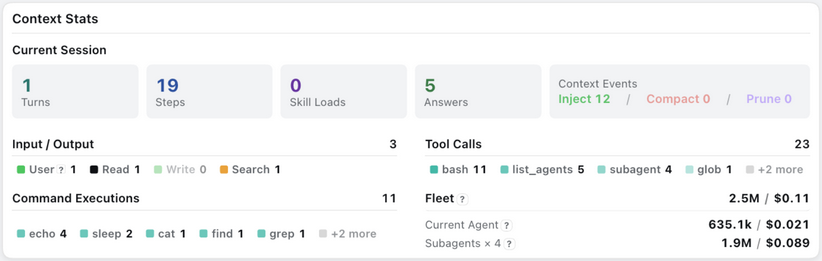
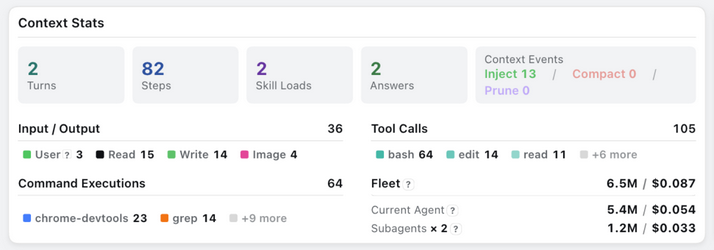
feat(stats): remove the redundant Current Session label from the Context Stats card

diff --git a/tests/client/components/statsContext.spec.ts b/tests/client/components/statsContext.spec.ts
@@ -133,7 +133,6 @@ describe('StatsContext', () => {
     assert.equal(queryAll(m.container, '.lc-ledger-out-body2 > .lc-strip-cell').length, 2, 'Current Agent and Subagents each hold one cost row')
     assert.equal(queryAll(m.container, '.lc-ledger-out-body2 .lc-ledger-chip').length, 0, 'the cost rows replace the roster chips')
     const core = query(m.container, '.lc-core')
-    assert.equal(query(core, '.lc-core-label')?.textContent, 'Current Session')
     assert.deepEqual(queryAll(core, '.lc-core-kv:not(.lc-core-kv-events)').map(el => (el.querySelector('b')?.textContent ?? '') + (el.querySelector('i')?.textContent ?? '')), ['3Turns', '4Steps', '2Skill Loads', '3Answers'])
     assert.equal(queryAll(m.container, '.lc-core-kv-events .lc-kind').length, 3)
     assert.equal(queryAll(m.container, '.lc-core-kv-events .lc-kind.lc-ledger-chip-dim').length, 0)
@@ -255,7 +254,6 @@ describe('StatsContext', () => {
     assert.deepEqual(queryAll(m.container, '.lc-ledger-total').map(el => el.textContent), ['3', '2', '0', '1.0M/¥2.00'])
     assert.deepEqual(chipsOf(query(m.container, '.lc-ledger-in-chips')), ['用户?0', '读取2', '写入1'])
     assert.deepEqual(chipsOf(query(m.container, '.lc-ledger-out-chips')), ['read2', '其他 +0'])
-    assert.equal(query(m.container, '.lc-core-label')?.textContent, '当前会话')
     const core = query(m.container, '.lc-core')
     assert.deepEqual(queryAll(core, '.lc-core-kv:not(.lc-core-kv-events)').map(el => (el.querySelector('b')?.textContent ?? '') + (el.querySelector('i')?.textContent ?? '')), ['1轮次', '1步数', '5技能加载', '4模型回复'])
     const costTip = costTipOf(m.container, 'team')

diff --git a/src/client/styles/stats.css b/src/client/styles/stats.css
@@ -97,7 +97,6 @@ button.lc-ledger-cost-row { appearance: none; border: 0; padding: 0; background:
 .lc-ledger-chip-more { opacity: 0.7; }
 .lc-ledger-gauge { display: block; position: absolute; height: 0; overflow: hidden; visibility: hidden; pointer-events: none; }
 .lc-core { display: grid; grid-template-columns: repeat(6, minmax(0, 1fr)); gap: 8px; padding-bottom: 12px; }
-.lc-core-label { grid-column: 1 / -1; font-size: 12px; font-weight: 600; color: var(--dsw-alias-label-primary); white-space: nowrap; }
 .lc-core-kvs { display: contents; }
 .lc-core-kv { min-width: 0; min-height: 54px; box-sizing: border-box; display: flex; flex-direction: column; align-items: flex-start; justify-content: center; padding: 6px 9px; border-radius: 7px; background: var(--lc-control-track); line-height: 1.2; }
 .lc-core-kv b { font-size: 18px; line-height: 1.15; font-weight: 700; color: var(--dsw-alias-label-primary); font-variant-numeric: tabular-nums; }

diff --git a/src/client/components/statsContext.tsx b/src/client/components/statsContext.tsx
@@ -512,7 +512,6 @@ export function makeStatsContext(
               <b className="lc-ledger-total">{fmt(ioTotal)}</b>
             </div>
             <div className="lc-core">
-              <span className="lc-core-label">{t('stats.session')}</span>
               <span className="lc-core-kvs lc-core-kvs-main">
                 {figure('turns', props.counts.turns, t('stats.turns'))}
                 {figure('steps', props.counts.steps, t('stats.steps'))}

diff --git a/src/client/i18nEn.ts b/src/client/i18nEn.ts
@@ -28,7 +28,6 @@ export const DICT_EN = {
   'overview.reserveTrigger': 'Auto-compaction trigger',
   'overview.reserveTriggerTip': 'Compaction fires when the used tokens reach this line',
   'stats.title': 'Context Stats',
-  'stats.session': 'Current Session',
   'stats.turns': 'Turns',
   'stats.steps': 'Steps',
   'stats.answers': 'Answers',

diff --git a/src/client/i18nZh.ts b/src/client/i18nZh.ts
@@ -25,7 +25,6 @@ export const DICT_ZH = {
   'overview.reserveTrigger': '自动压缩触发线',
   'overview.reserveTriggerTip': '已用量到达此线时触发压缩',
   'stats.title': '上下文统计',
-  'stats.session': '当前会话',
   'stats.turns': '轮次',
   'stats.steps': '步数',
   'stats.answers': '模型回复',
